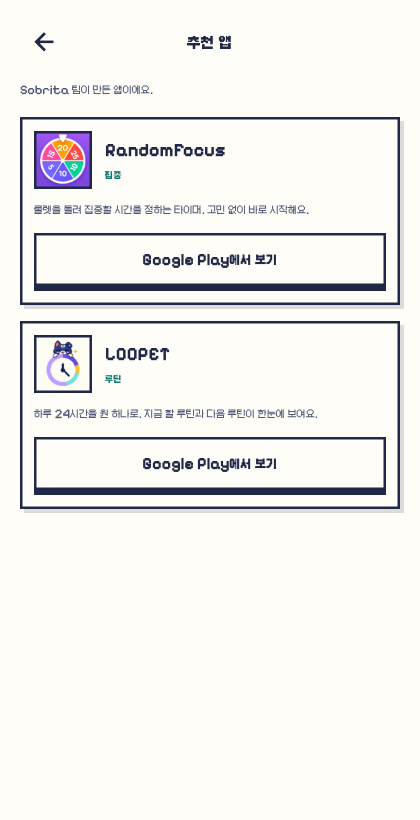
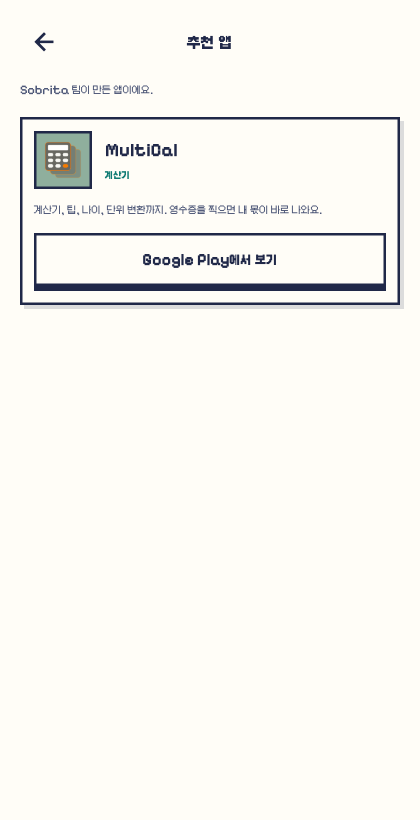
feat: recommend MultiCal in place of LOOPET and RandomFocus
The "Apps recomendadas" row now lists only MultiCal
(com.casewen.multi_calc), with its icon and a calculator blurb in all
seven languages. LOOPET and RandomFocus come out with their icons and
strings, and the design captures are re-recorded.

Changed region(s): [[0.031, 0.3659, 0.9595, 0.6402], [0.0619, 0.1524, 0.7738, 0.2744], [0.2476, 0.1524, 0.5262, 0.2134]]

diff --git a/lib/data/our_apps.dart b/lib/data/our_apps.dart
@@ -38,21 +38,13 @@ const ourAppsReferrer = 'utm_source=sobrita&utm_medium=our_apps';
 /// Every card is the same size and none is marked, so the order is the only
 /// thing that could read as a preference; age is the one that says nothing.
 /// Only apps already live on Play belong here — a card whose button lands on
-/// "item not found" is worse than no card. Currency Mate joins once it ships
-/// under a real package name.
+/// "item not found" is worse than no card.
 final ourApps = <OurApp>[
   OurApp(
-    packageName: 'com.randomfocus.app',
-    name: 'RandomFocus',
-    icon: 'assets/apps/randomfocus.png',
-    kind: (l10n) => l10n.ourAppsRandomFocusKind,
-    blurb: (l10n) => l10n.ourAppsRandomFocusBlurb,
-  ),
-  OurApp(
-    packageName: 'com.dayround.app',
-    name: 'LOOPET',
-    icon: 'assets/apps/loopet.png',
-    kind: (l10n) => l10n.ourAppsLoopetKind,
-    blurb: (l10n) => l10n.ourAppsLoopetBlurb,
+    packageName: 'com.casewen.multi_calc',
+    name: 'MultiCal',
+    icon: 'assets/apps/multical.png',
+    kind: (l10n) => l10n.ourAppsMultiCalKind,
+    blurb: (l10n) => l10n.ourAppsMultiCalBlurb,
   ),
 ];

diff --git a/lib/screens/our_apps_screen.dart b/lib/screens/our_apps_screen.dart
@@ -98,7 +98,7 @@ class _AppCard extends StatelessWidget {
               // filtered the way Sobra's sprites are: it was drawn to be
               // scaled down smoothly by a launcher.
               // In front of the icon, not behind it: a square icon covers
-              // its whole box, and LOOPET's cream would melt into the card.
+              // its whole box, and a pale one would melt into the card.
               DecoratedBox(
                 position: DecorationPosition.foreground,
                 decoration: BoxDecoration(
